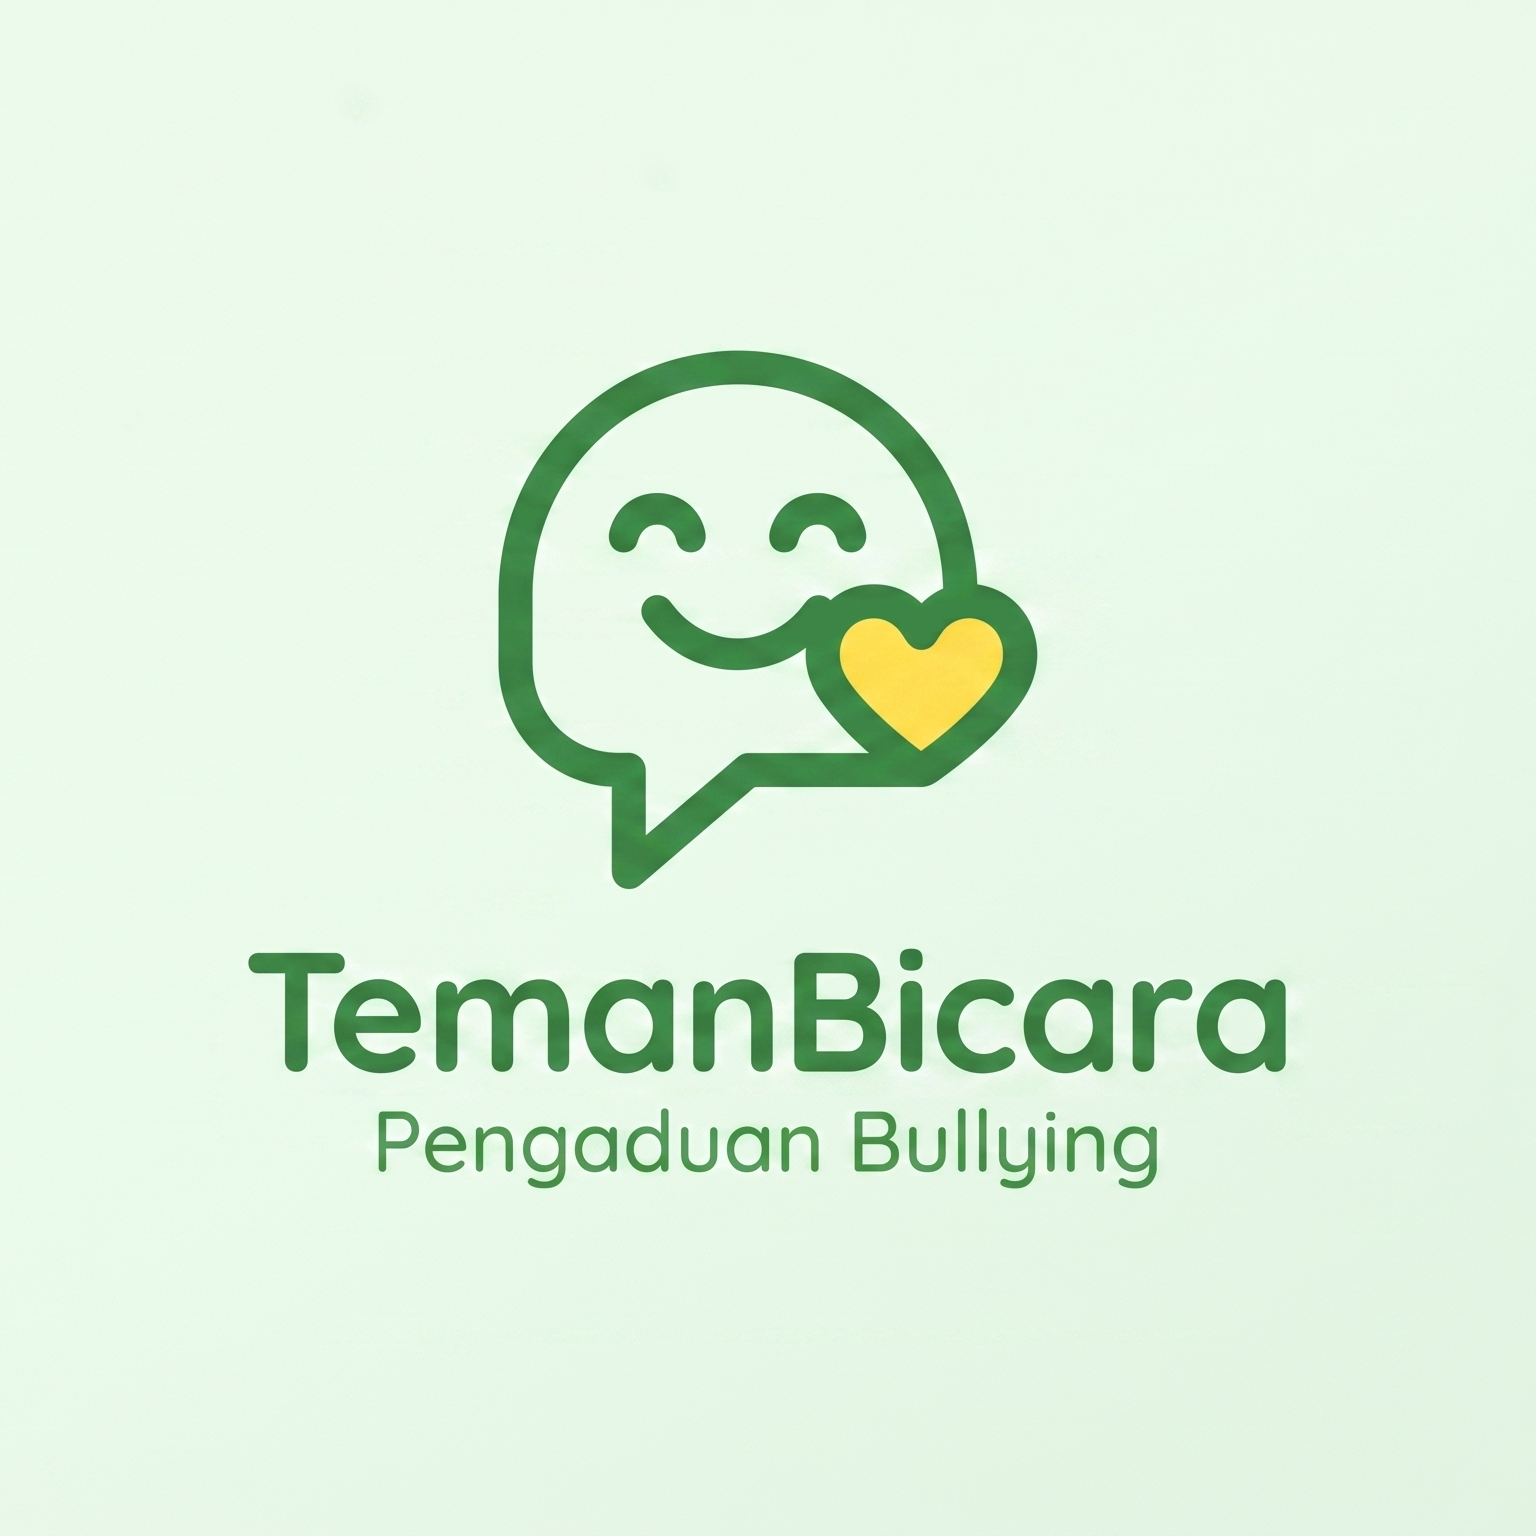
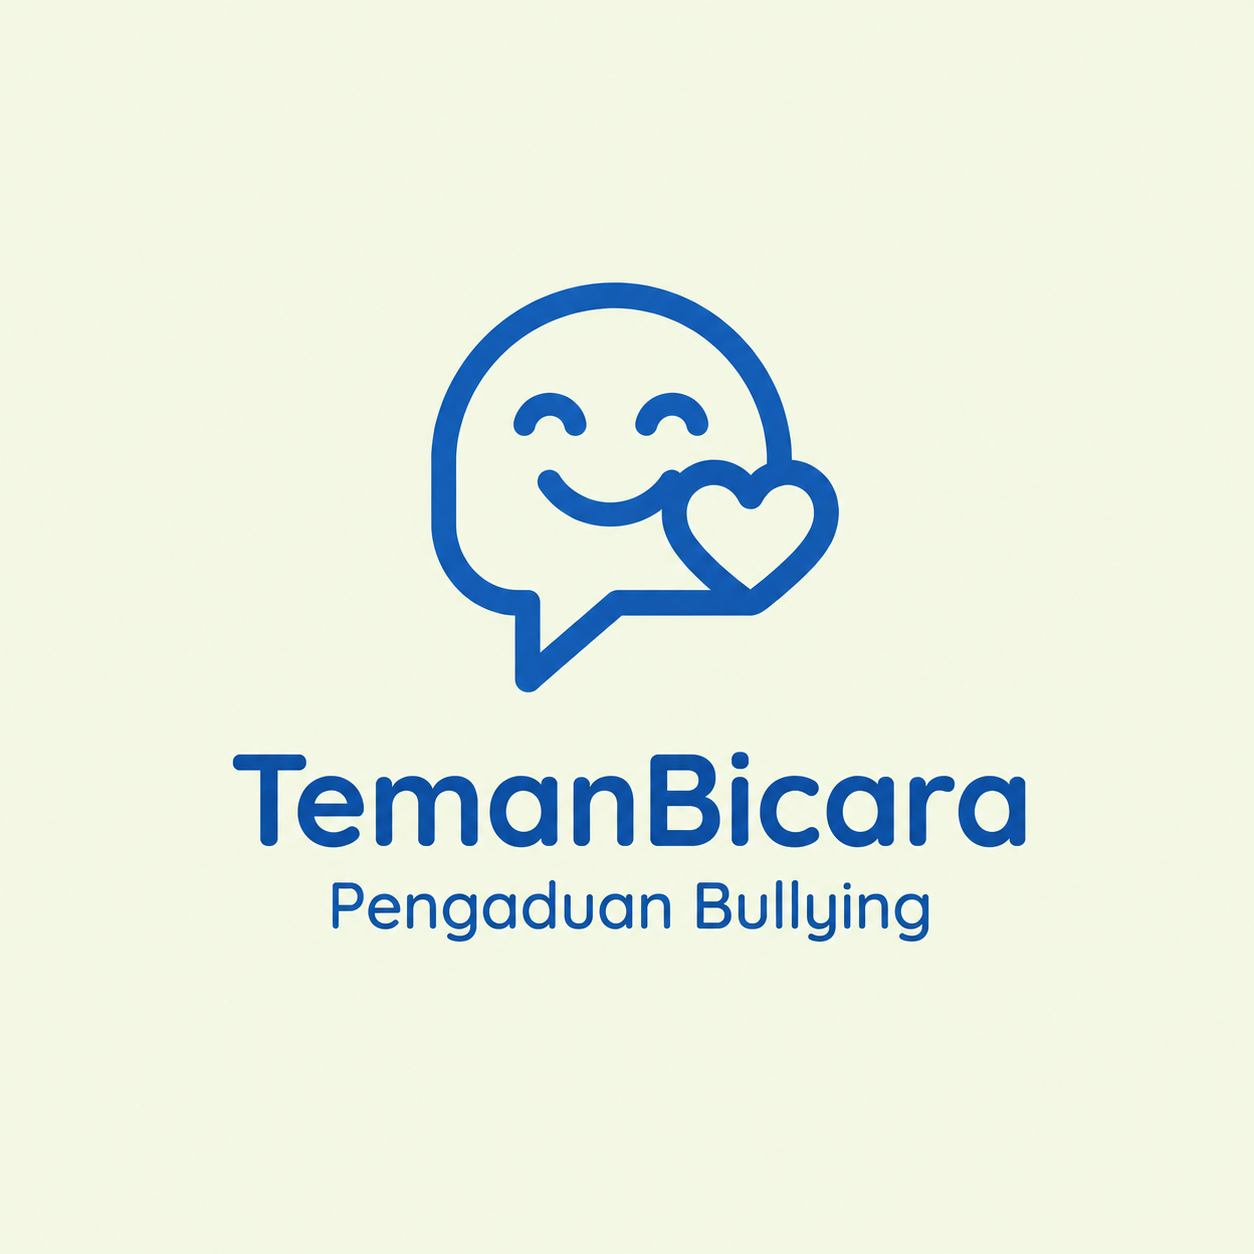
update final

Changed region(s): [[0.1555, 0.5909, 0.8397, 0.7775], [0.311, 0.2177, 0.6842, 0.5909]]

diff --git a/vite.config.js b/vite.config.js
@@ -13,8 +13,8 @@ export default defineConfig({
         name: 'TemanBicara - Pengaduan Bullying',
         short_name: 'TemanBicara',
         description: 'Sistem Pengaduan Bullying Sekolah',
-        theme_color: '#2E7D32',
-        background_color: '#F4FBEE',
+        theme_color: '#1565C0',
+        background_color: '#F5F9FF',
         display: 'standalone',
         start_url: '/',
         icons: [
